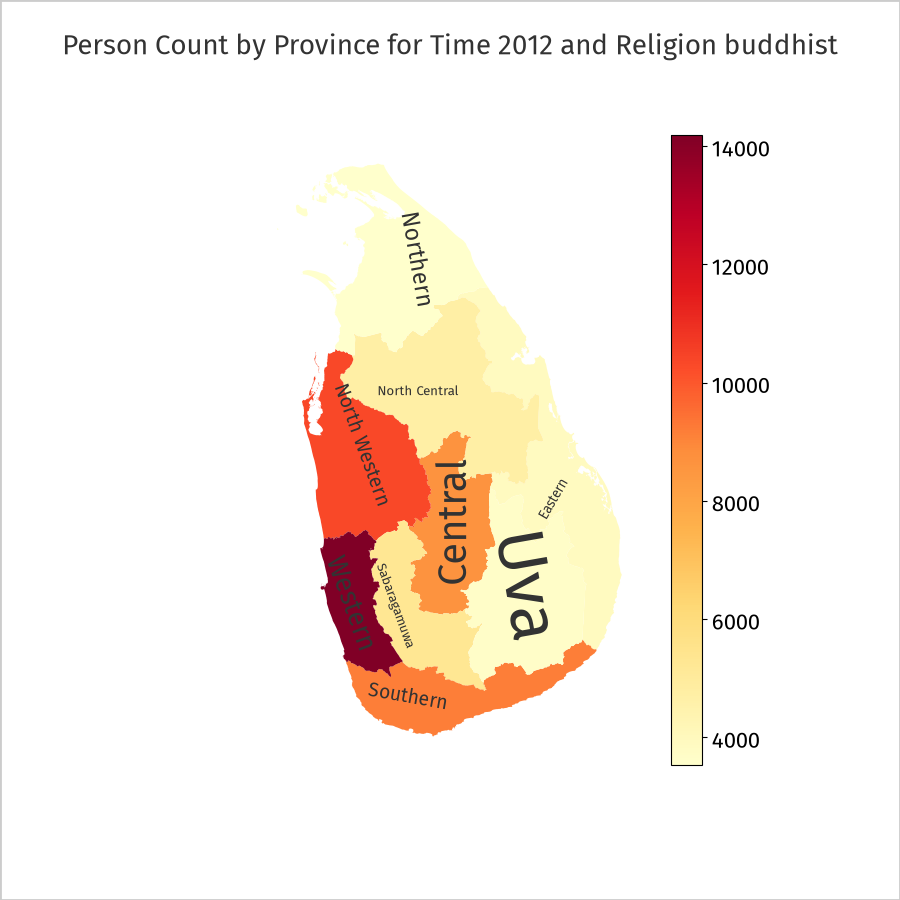
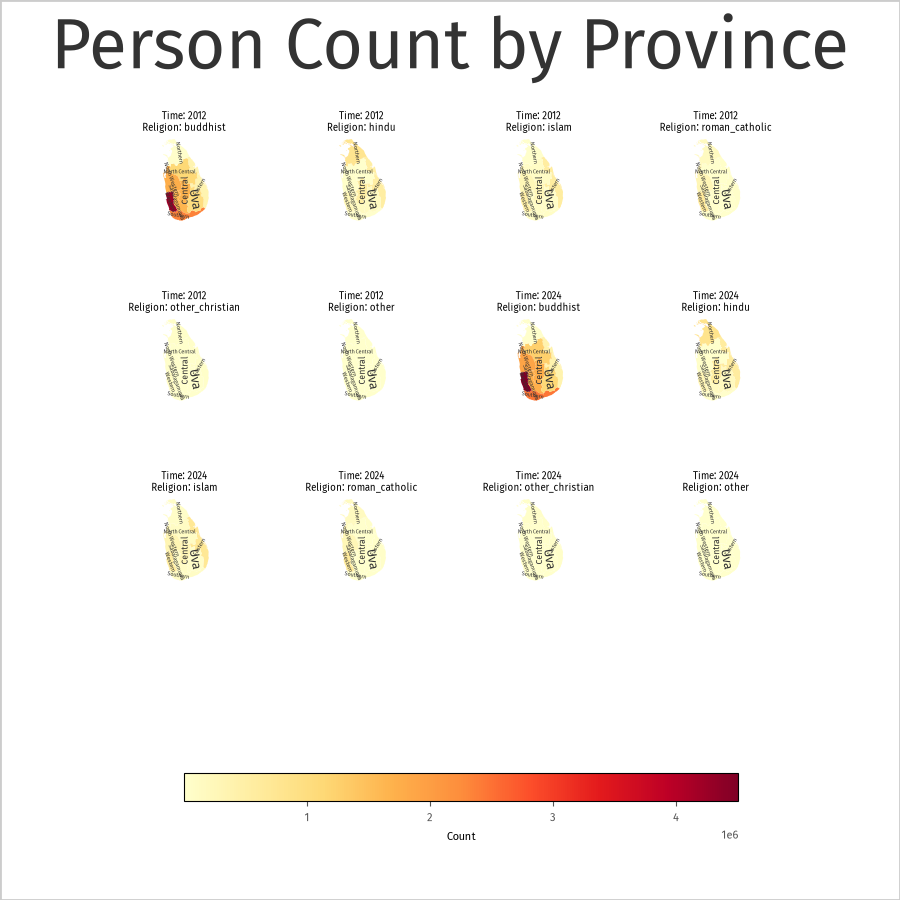
Enhance MapVisual functionality: add label clipping, improve colorbar formatting, and update visual class registration in VisualFactory

diff --git a/src/ds/visual/MapVisual.py b/src/ds/visual/MapVisual.py
@@ -5,6 +5,7 @@ import urllib.request
 import geopandas
 import matplotlib.cm as cm
 import matplotlib.colors as mcolors
+from matplotlib.ticker import FuncFormatter
 
 from ds.visual.label_fit.LabelFit import LabelFit
 from ds.visual.Visual import Visual
@@ -67,7 +68,10 @@ class MapVisual(Visual):
         for _, row in gdf.iterrows():
             label = row.get("name") or row["region_id"]
             cx, cy, rw, rh, angle_deg = LabelFit.best_label_fit(row.geometry)
+            if rw <= 0 or rh <= 0:
+                continue
             fontsize = LabelFit.fit_fontsize(label, rw, rh, ax, renderer)
+            fontsize = max(4, min(9, fontsize))
             text_angle = angle_deg if rw >= rh else angle_deg + 90
             while text_angle > 90:
                 text_angle -= 180
@@ -79,6 +83,7 @@ class MapVisual(Visual):
                 fontsize=fontsize,
                 color="#333333",
                 rotation=text_angle,
+                clip_on=True,
             )
 
     def _get_value_range(self):
@@ -142,6 +147,9 @@ class MapVisual(Visual):
             fraction=0.04,
             pad=0.04,
         )
+        formatter = FuncFormatter(self._format_humanized_value)
+        colorbar.ax.xaxis.set_major_formatter(formatter)
+        colorbar.update_ticks()
         colorbar.set_label(self.y_cell_key)
 
     def _plot(self, fig, ax):

diff --git a/src/ds/visual/VisualFactory.py b/src/ds/visual/VisualFactory.py
@@ -1,8 +1,7 @@
 from ds.visual.BarChart import BarChart
+from ds.visual.MapVisual import MapVisual
 from ds.visual.PieChart import PieChart
 from ds.visual.StackedBarChart import StackedBarChart
-
-# from ds.visual.MapVisual import MapVisual
 
 
 class VisualFactory:
@@ -11,9 +10,9 @@ class VisualFactory:
     def visual_class_list(cls):
         return [
             BarChart,
+            MapVisual,
             PieChart,
             StackedBarChart,
-            # MapVisual,
         ]
 
     @classmethod

diff --git a/tests/test_visual.py b/tests/test_visual.py
@@ -8,6 +8,7 @@ class TestCase(unittest.TestCase):
         datumset = LankaData["Person/Time*Province*Religion/Count"]
         visual_params_idx = {
             "BarChart": ("Religion", "Count"),
+            "MapVisual": ("Province", "Count"),
             "PieChart": ("Religion", "Count"),
             "StackedBarChart": ("Province", "Religion", "Count"),
         }
